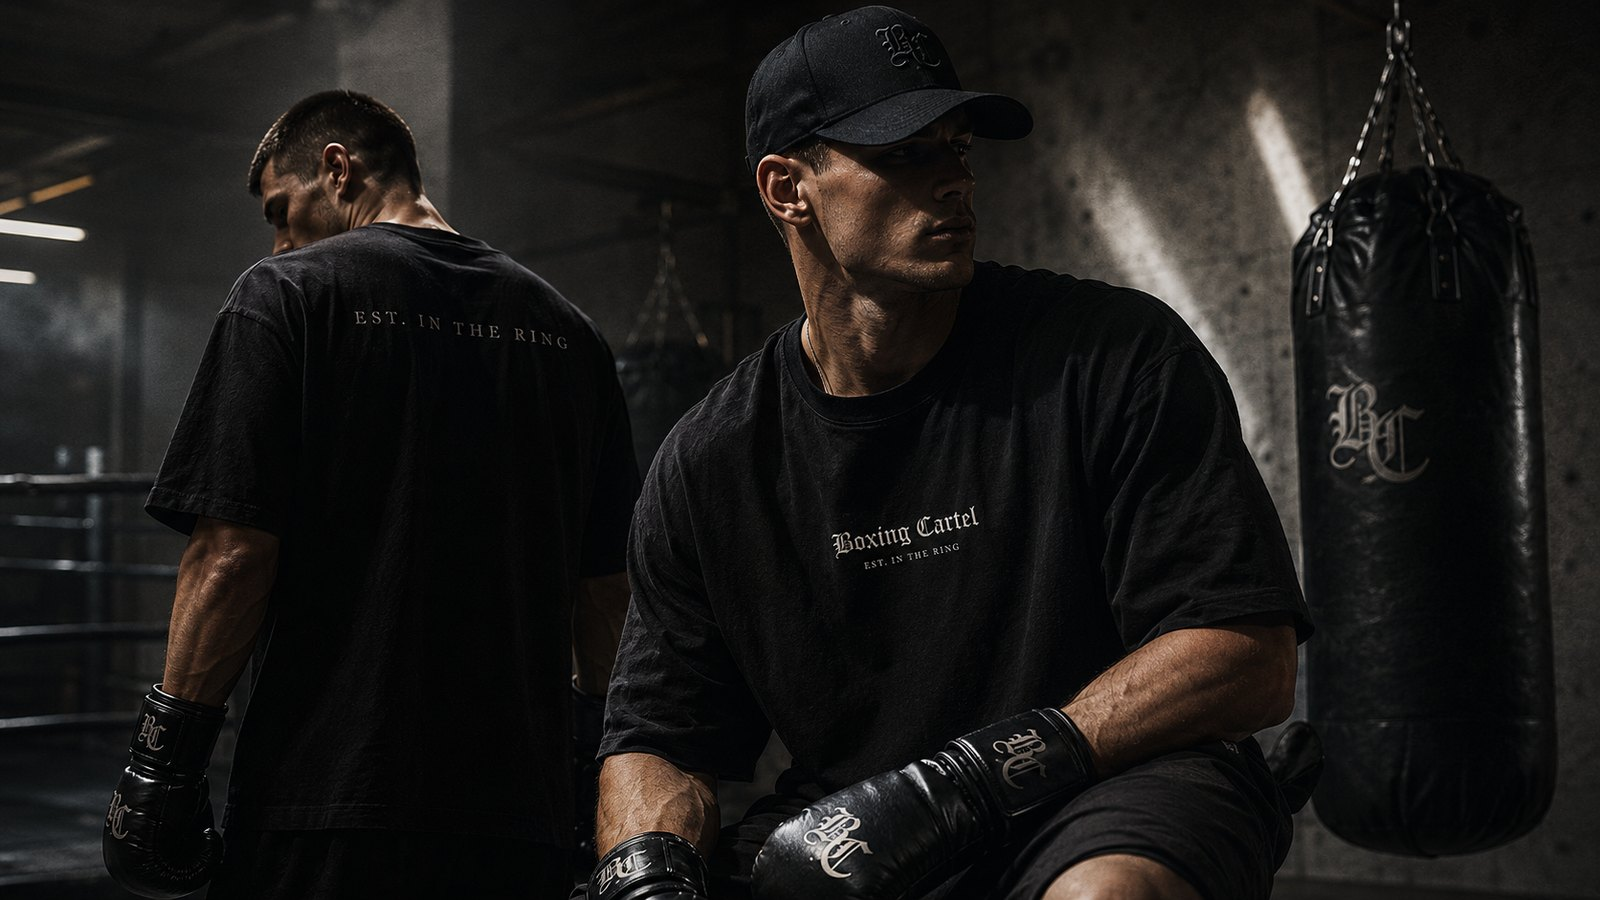
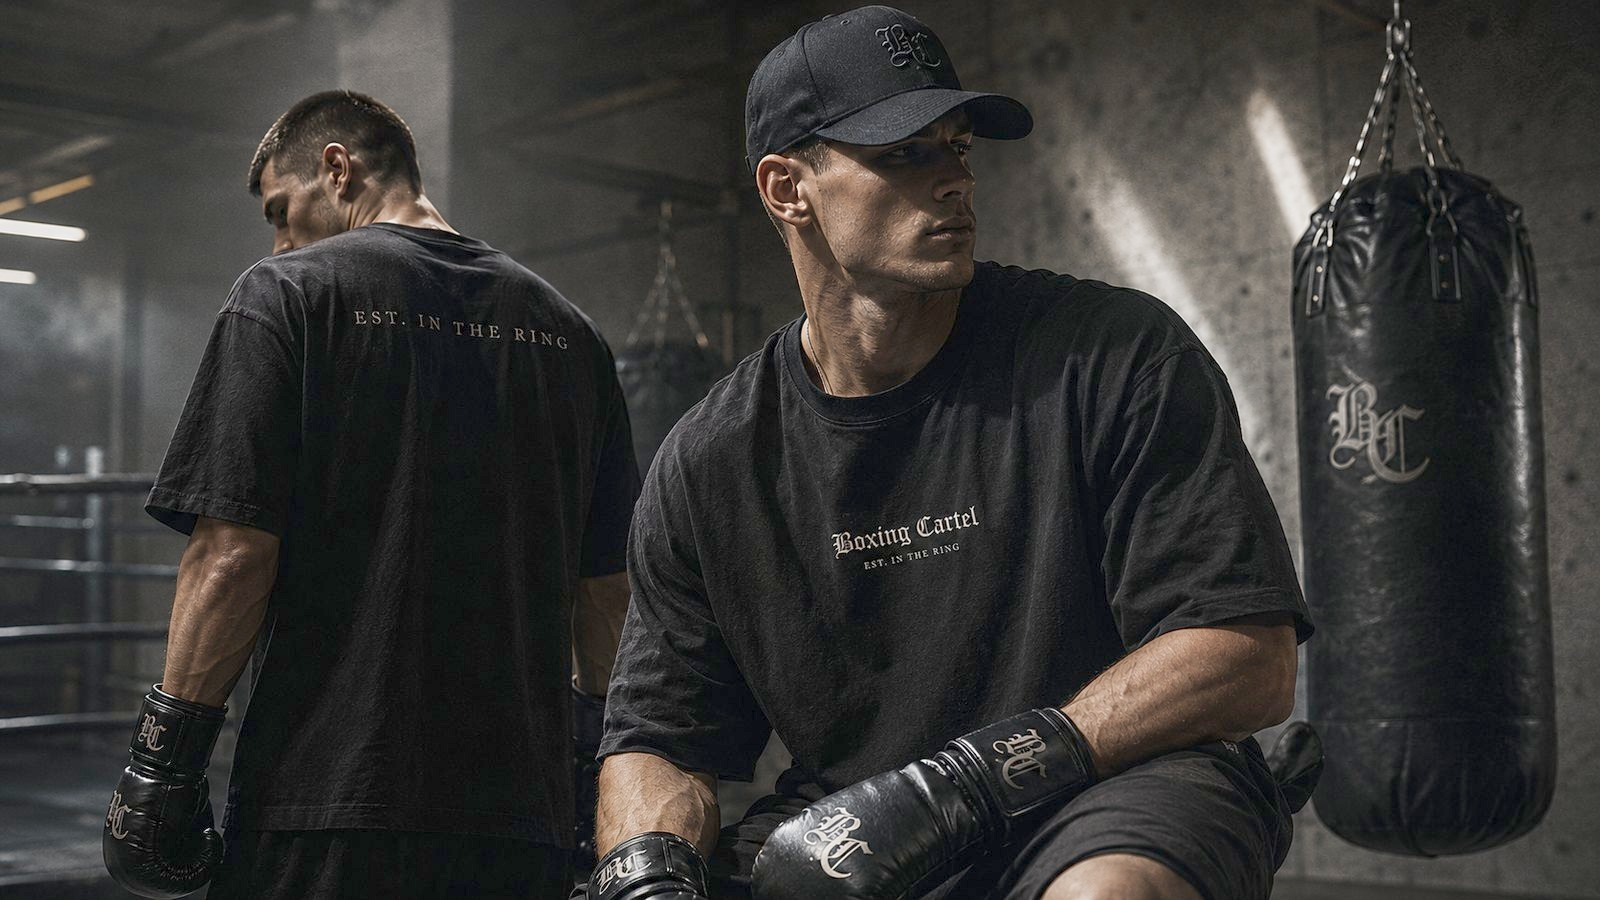
boxingcartel: светлее hero, фикс кнопок и карточки

diff --git a/site/boxingcartel/styles.css b/site/boxingcartel/styles.css
@@ -60,12 +60,12 @@ header{position:sticky;top:0;z-index:90;background:rgba(10,10,10,.78);backdrop-f
 .burger{display:none;background:none;border:none;color:#fff;cursor:pointer}
 
 /* ---------- hero ---------- */
-.hero{position:relative;height:100vh;min-height:640px;display:flex;align-items:flex-end;overflow:hidden}
+.hero{position:relative;height:100vh;height:100svh;min-height:560px;display:flex;align-items:flex-end;overflow:hidden}
 .hero__bg{position:absolute;inset:0;background:#000}
 .hero__bg .slide{position:absolute;inset:0;width:100%;height:100%;object-fit:cover;opacity:0;filter:none;transition:opacity 1.6s ease-in-out;will-change:opacity}
 .hero__bg .slide.on{opacity:1}
-.hero__bg::after{content:"";position:absolute;inset:0;background:linear-gradient(180deg,rgba(0,0,0,.6) 0%,rgba(0,0,0,.1) 38%,rgba(10,10,10,.98) 100%)}
-.hero__inner{position:relative;z-index:2;width:100%;padding-bottom:8vh}
+.hero__bg::after{content:"";position:absolute;inset:0;background:none}
+.hero__inner{position:relative;z-index:2;width:100%;padding-bottom:8vh;text-shadow:0 1px 20px rgba(0,0,0,.5)}
 .hero h1{font-weight:600;text-transform:uppercase;letter-spacing:-.02em;line-height:1.12;font-size:clamp(30px,5.6vw,94px);margin:24px 0 44px}
 .hero h1 .hl{display:block;will-change:transform}
 .hero__slogan{font-weight:700;text-transform:uppercase;font-size:clamp(34px,6vw,84px);letter-spacing:-.015em;line-height:1.06;color:#fff;margin:10px 0 26px;max-width:15ch}
@@ -236,11 +236,15 @@ footer{border-top:1px solid var(--line);padding:80px 0 38px;background:#000}
 .crumb a:hover{color:#fff}
 .crumb span{color:#3a3a3a}
 .pdp__main{display:grid;grid-template-columns:1.15fr 1fr;gap:72px;align-items:start}
-.pdp__gallery{display:flex;flex-direction:column;gap:4px}
-.pdp__shot{position:relative;aspect-ratio:1/1;background:var(--photo-bg);overflow:hidden}
+.pdp__gallery{display:flex;flex-direction:column;gap:10px}
+.pdp__shot{position:relative;aspect-ratio:1/1;max-height:64vh;background:var(--photo-bg);overflow:hidden}
 .pdp__shot img{width:100%;height:100%;object-fit:cover;filter:var(--photo-filter)}
-.pdp__thumbs{display:flex;gap:4px}
-.pdp__thumbs .t{flex:1;aspect-ratio:1/1;background:var(--photo-bg);overflow:hidden;cursor:pointer;opacity:.5;transition:opacity .3s}
+.pdp__nav{position:absolute;top:50%;transform:translateY(-50%);width:44px;height:44px;border:none;border-radius:50%;background:rgba(0,0,0,.42);color:#fff;font-size:24px;line-height:1;cursor:pointer;z-index:3;display:flex;align-items:center;justify-content:center;transition:background .25s,opacity .25s}
+.pdp__nav:hover{background:rgba(0,0,0,.75)}
+.pdp__nav--prev{left:12px}
+.pdp__nav--next{right:12px}
+.pdp__thumbs{display:flex;gap:8px;flex-wrap:wrap}
+.pdp__thumbs .t{flex:0 0 auto;width:84px;aspect-ratio:1/1;background:var(--photo-bg);overflow:hidden;cursor:pointer;opacity:.5;transition:opacity .3s}
 .pdp__thumbs .t.active,.pdp__thumbs .t:hover{opacity:1}
 .pdp__thumbs .t img{width:100%;height:100%;object-fit:cover;filter:var(--photo-filter)}
 .pdp__info{position:sticky;top:94px}
@@ -268,11 +272,13 @@ footer{border-top:1px solid var(--line);padding:80px 0 38px;background:#000}
   .philo,.ed,.pdp__main{grid-template-columns:1fr}
   .philo{gap:36px}
   .pdp__info{position:static}
-  .pdp__main{gap:34px}
+  .pdp__main{gap:26px}
+  .pdp__shot{max-height:56vh}
   .foot{grid-template-columns:1fr 1fr;gap:34px}
   .wrap{padding:0 22px}
   section{padding:78px 0}
-  .hero{height:90vh}
+  .hero{min-height:0}
+  .hero__inner{padding-bottom:5vh}
 }
 @media(max-width:520px){.foot{grid-template-columns:1fr}.card__info{flex-direction:column;align-items:flex-start;gap:6px}}
 

diff --git a/site/boxingcartel/product.html b/site/boxingcartel/product.html
@@ -99,6 +99,7 @@ const t = k => (I18N[lang][k] || k);
 const slug = new URLSearchParams(location.search).get('p');
 let product = PRODUCTS.find(p=>p.slug===slug) || PRODUCTS[0];
 let activeSize = null;
+let shotIdx = 0;
 
 function card(p){
   const tag = p.tag ? `<span class="card__tag">${p.tag==='new'?(lang==='ru'?'НОВОЕ':'NEW'):p.tag.toUpperCase()}</span>` : '';
@@ -119,8 +120,11 @@ function card(p){
 function renderPDP(){
   const p = product;
   document.title = `${p.name[lang]} — Boxing Cartel`;
+  shotIdx = 0;
   const thumbs = p.gallery.length>1
-    ? `<div class="pdp__thumbs">${p.gallery.map((g,i)=>`<div class="t${i===0?' active':''}" onclick="setShot('${g}',this)"><img src="${BASE}${g}" alt=""></div>`).join('')}</div>` : '';
+    ? `<div class="pdp__thumbs">${p.gallery.map((g,i)=>`<div class="t${i===0?' active':''}" onclick="setShot(${i})"><img src="${BASE}${g}" alt=""></div>`).join('')}</div>` : '';
+  const nav = p.gallery.length>1
+    ? `<button class="pdp__nav pdp__nav--prev" aria-label="prev" onclick="navShot(-1)">&#8249;</button><button class="pdp__nav pdp__nav--next" aria-label="next" onclick="navShot(1)">&#8250;</button>` : '';
   document.getElementById('pdp').innerHTML = `
     <a class="pdp__back" href="index.html#collection">${t('pdp_back')}</a>
     <div class="crumb">
@@ -130,7 +134,7 @@ function renderPDP(){
     </div>
     <div class="pdp__main">
       <div class="pdp__gallery">
-        <div class="pdp__shot"><img id="main-shot" src="${BASE}${p.gallery[0]}" alt="${p.name[lang]}"></div>
+        <div class="pdp__shot"><img id="main-shot" src="${BASE}${p.gallery[0]}" alt="${p.name[lang]}">${nav}</div>
         ${thumbs}
       </div>
       <div class="pdp__info">
@@ -152,11 +156,13 @@ function renderPDP(){
   document.getElementById('grid-related').innerHTML = pool.map(card).join('');
   document.getElementById('related-sec').style.display = pool.length ? 'block' : 'none';
 }
-function setShot(img,el){
-  document.getElementById('main-shot').src = BASE+img;
-  document.querySelectorAll('.pdp__thumbs .t').forEach(t=>t.classList.remove('active'));
-  el.classList.add('active');
+function setShot(i){
+  const g = product.gallery;
+  shotIdx = (i+g.length)%g.length;
+  document.getElementById('main-shot').src = BASE+g[shotIdx];
+  document.querySelectorAll('.pdp__thumbs .t').forEach((t,idx)=>t.classList.toggle('active',idx===shotIdx));
 }
+function navShot(d){ if(product.gallery.length>1) setShot(shotIdx+d); }
 function pickSize(s,el){
   activeSize=s;
   document.querySelectorAll('.sizes button').forEach(b=>b.classList.remove('active'));
